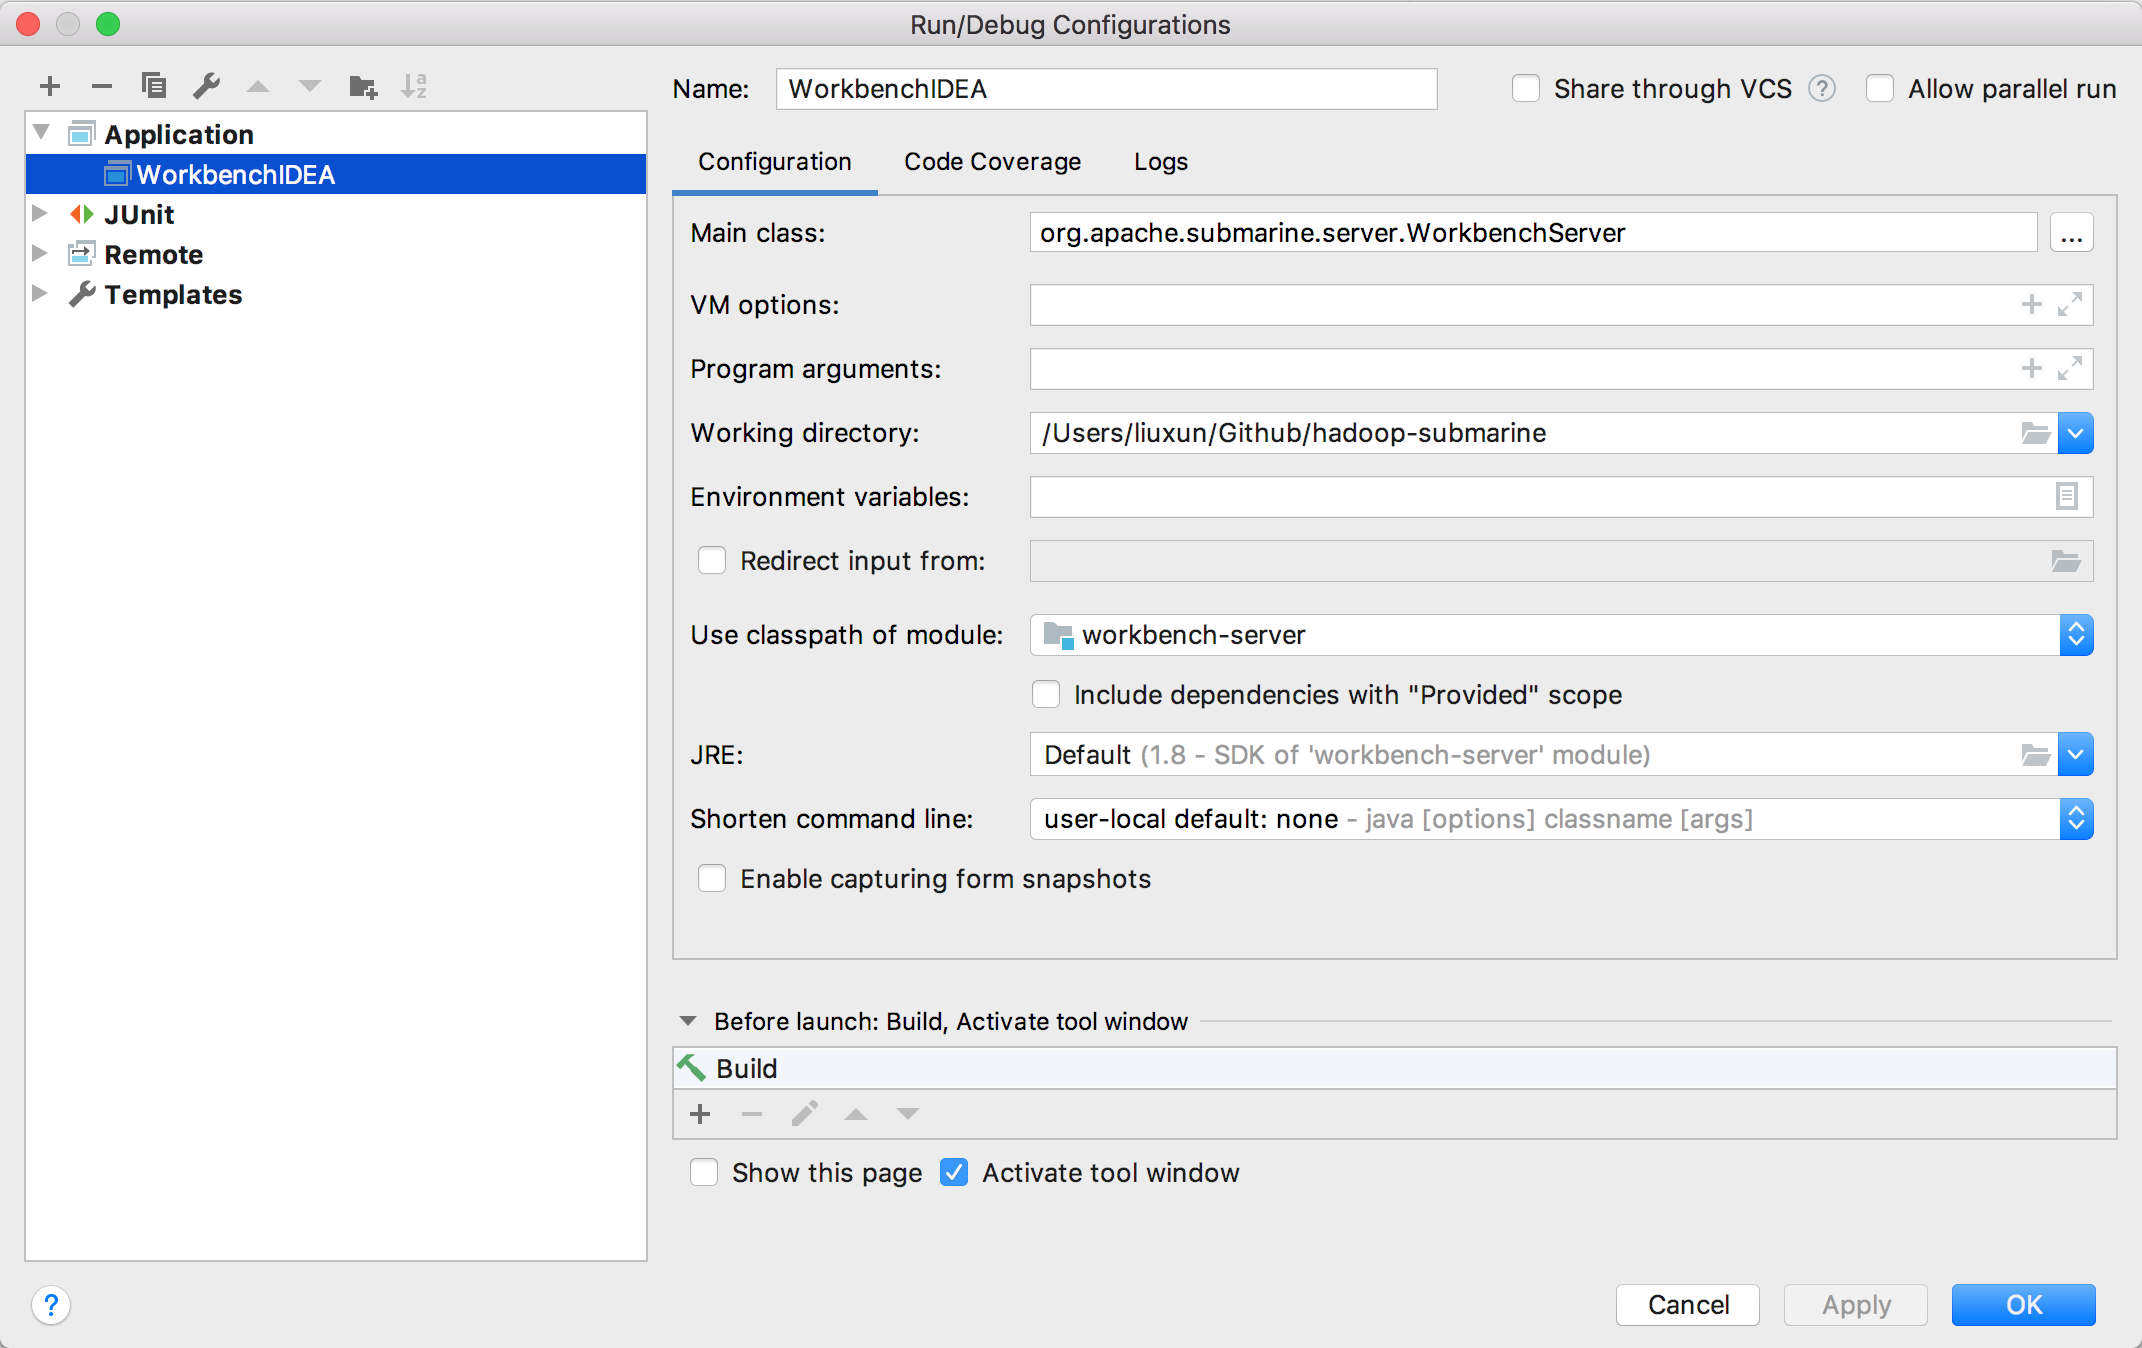
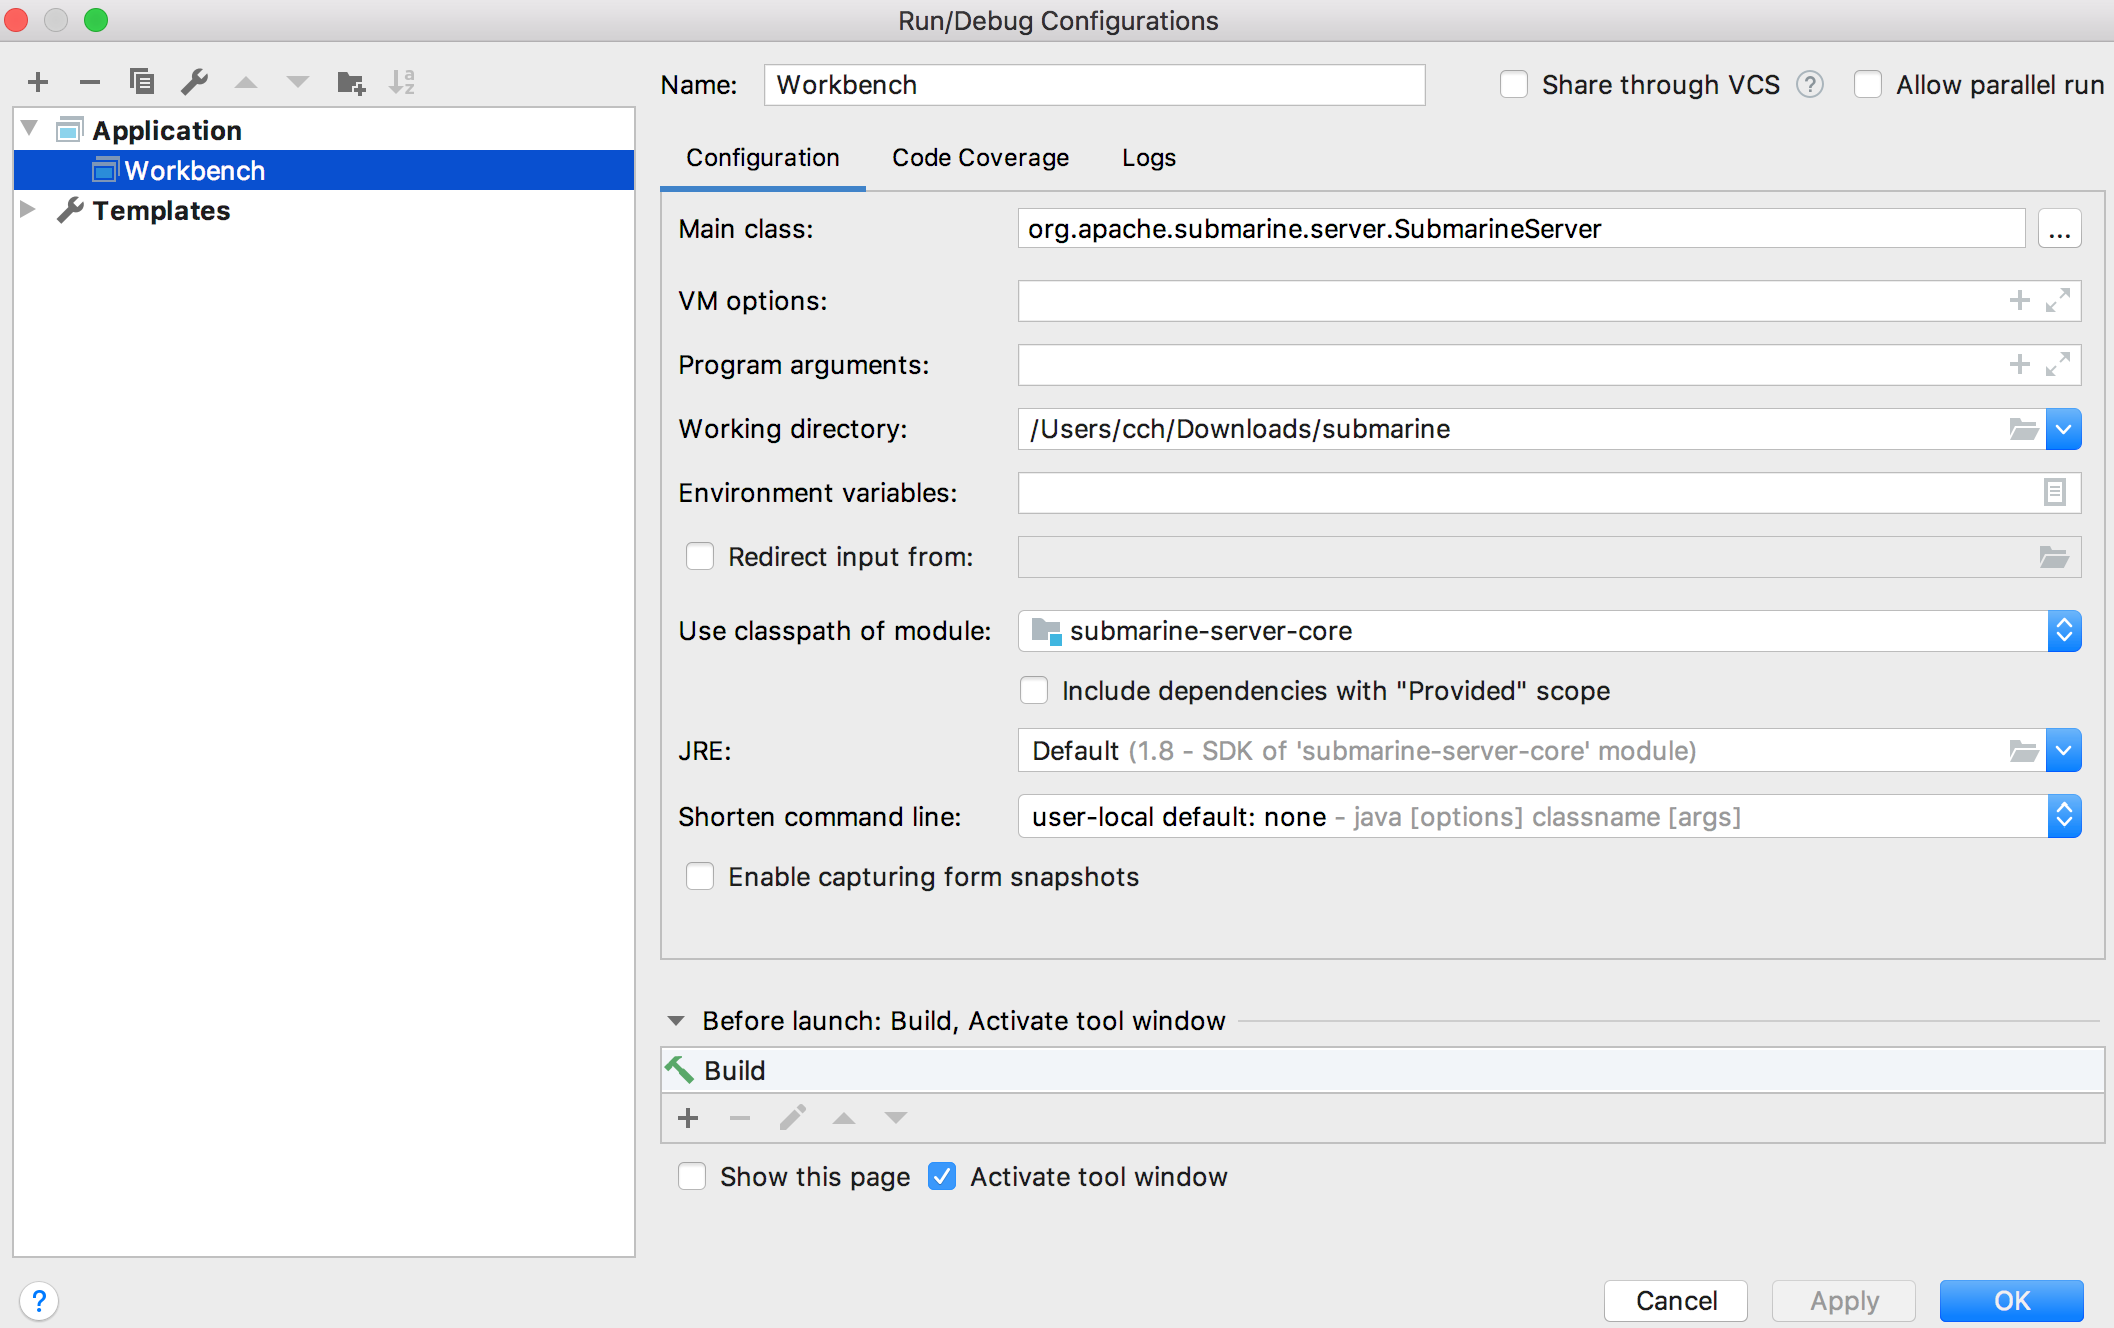
[WORKBENCH] Renew the filepath and screenshot for the workbench doc

diff --git a/docs/development/README.md b/docs/development/README.md
@@ -22,15 +22,15 @@ This document mainly describes the structure of each module of the Submarine pro
 
 ### 2.1. dev-support
 
-+ **mini-submarine**: by using the docker image provided by Submarine, you can 
-experience all the functions of Submarine in a single docker environment, while 
-mini-submarine also provides developers with a development and testing 
-environment, Avoid the hassle of installing and deploying the runtime 
++ **mini-submarine**: by using the docker image provided by Submarine, you can
+experience all the functions of Submarine in a single docker environment, while
+mini-submarine also provides developers with a development and testing
+environment, Avoid the hassle of installing and deploying the runtime
 environment.
-+ **submarine-installer**: submarine-installer is our submarine runtime 
-environment installation tool for yarn-3.1+ and above.By using 
++ **submarine-installer**: submarine-installer is our submarine runtime
+environment installation tool for yarn-3.1+ and above.By using
 submarine-installer, it is easy to install and deploy system services such as
-`docker`, `nvidia-docker`, `nvidia driver`, `ETCD`, `Calico network` etc. 
+`docker`, `nvidia-docker`, `nvidia driver`, `ETCD`, `Calico network` etc.
 required by yarn-3.1+.
 
 ### 2.2. submarine-all
@@ -50,26 +50,26 @@ Waiting for supplement
 Waiting for supplement
 
 ### 2.6. submarine-sdk
-+ **pysubmarine**: By using Submarine's python sdk library, you can output 
++ **pysubmarine**: By using Submarine's python sdk library, you can output
 metrics such as metrics when the algorithm is executed in your python program by
 importing pysubmarine during the development of the machine learning algorithm.
 
 ### 2.7. submarine-workbench
-+ **workbench-server**: is a Jetty-based web server service. Workbench-server 
-provides RESTful interface and Websocket interface. The RESTful interface 
-provides workbench-web with management capabilities for databases such as 
++ **workbench-server**: is a Jetty-based web server service. Workbench-server
+provides RESTful interface and Websocket interface. The RESTful interface
+provides workbench-web with management capabilities for databases such as
 project, department, user, and role.
-+ **workbench-web**: is a web front-end service based on `VUE.js` framework. 
-With `workbench-web` users can manage Submarine project, department, user, role 
-through browser. You can also use the notebook to develop machine learning 
++ **workbench-web**: is a web front-end service based on `VUE.js` framework.
+With `workbench-web` users can manage Submarine project, department, user, role
+through browser. You can also use the notebook to develop machine learning
 algorithms, model release and other lifecycle management.
 
 ## 3. Submarine Workbench Development Guide
 
 Submarine workbench consists of three modules: workbench-server, workbench-web
-and database. 
+and database.
 
-First, you need to clone the entire Submarine project: 
+First, you need to clone the entire Submarine project:
 
 ```
 git clone https://github.com/hadoopsubmarine/submarine.git
@@ -77,22 +77,22 @@ git clone https://github.com/hadoopsubmarine/submarine.git
 
 ## 3.1 Database
 
-Submarine selects mysql as the workbench database, and stores the table 
-structure and information of all the data in workbench in mysql. Please browse 
-the project's [Submarine Database Guide](../database/) documentation and follow 
-the instructions to install a mysql database via docker in your development and 
+Submarine selects mysql as the workbench database, and stores the table
+structure and information of all the data in workbench in mysql. Please browse
+the project's [Submarine Database Guide](../database/) documentation and follow
+the instructions to install a mysql database via docker in your development and
 test environment.
 
 ## 3.2 Workbench-web
 
 + **Install dependencies**
 
-You only need to execute the following command when you run workbench-web for 
-the first time, so you can follow the depend. environment of node.js in the 
+You only need to execute the following command when you run workbench-web for
+the first time, so you can follow the depend. environment of node.js in the
 workbench-web directory.
 
 ```bash
-cd submarine/workbench-web
+cd submarine-workbench/workbench-web
 yarn install
 ```
 
@@ -108,7 +108,7 @@ By executing the above command, `workbench-web` will publish the web page to the
 
 + **Lints and fixes files**
 
-When you write the `vue, js` file in `workbench-web` through IDEA, because IDEA can't format these files well, you need to execute the following command to format the vue and js files to avoid some warnings during the yarn build. 
+When you write the `vue, js` file in `workbench-web` through IDEA, because IDEA can't format these files well, you need to execute the following command to format the vue and js files to avoid some warnings during the yarn build.
 
 ```
 yarn run lint
@@ -120,13 +120,13 @@ In fact, you must execute this command when you develop and submit any workbench
 
 Workbench-server has a built-in jetty server service, so you don't need to install any web container service. You can start submarine workbench by launching `workbench-server` directly in IDEA.
 
-+ **Run / Debug** : In the IDEA, add a Run/Debug Configuration, `Main Class:` select `org.apache.submarine.server.SubmarineServer`, `Use classpath of module:` select `workbench-server`. 
++ **Run / Debug** : In the IDEA, add a Run/Debug Configuration, `Main Class:` select `org.apache.submarine.server.SubmarineServer`, `Use classpath of module:` select `workbench-server`.
 
 ![img](../assets/Run-Debug-Configuration.png)
 
 So you can pass http://127.0.0.1:8080 debugging or running to submarine-workbench.
 
-+ **It should be noted**: 
++ **It should be noted**:
 
 1. Because `workbench-web/dist` is the webapp default directory of the workbench-server Jetty Server, the workbench-server will automatically load the `workbench-web/dist` directory after startup.
 
